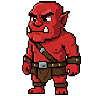
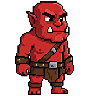
orc stand mirrored, mirror on move left fix

diff --git a/Assets/Scripts/Enemy/EnemyView.cs b/Assets/Scripts/Enemy/EnemyView.cs
@@ -13,6 +13,7 @@ public class EnemyView : MonoBehaviour
     public SpriteRenderer mainSprite;
     public float poiseFallThreshold = 0.1f;
     public float poiseStruggleThreshold = 0.5f;
+    public bool isLookingLeft = false;
 
     public void Init(Game game, Enemy enemy) {
         _game = game;
@@ -41,7 +42,11 @@ public class EnemyView : MonoBehaviour
     }
 
     public void ManualUpdate(float deltaTime) {
-        currentState?.UpdateState(deltaTime);
+        currentState?.UpdateState(deltaTime);        
+        transform.localScale = new Vector3(
+            isLookingLeft ? -1 : 1, 
+            1,
+            1);
     }
 
     public void Refresh(float poise) {

diff --git a/Assets/Scripts/Enemy/States/MoveToGem.cs b/Assets/Scripts/Enemy/States/MoveToGem.cs
@@ -25,6 +25,7 @@ public class MoveToGem : AiState
             _ai.SetState<MoveToSpawn>();
             return;
         }
-        _ai.MoveInDirrection(_ai.agent.desiredVelocity.normalized);        
+        _ai.MoveInDirrection(_ai.agent.desiredVelocity.normalized);     
+        _owner.view.isLookingLeft = (_owner.transform.position - _ai.targetGem.transform.position).x > 0;   
     }
 }

diff --git a/Assets/Scripts/Enemy/States/MoveToSpawn.cs b/Assets/Scripts/Enemy/States/MoveToSpawn.cs
@@ -26,5 +26,6 @@ public class MoveToSpawn : AiState
             return;
         }
         _ai.MoveInDirrection(_ai.agent.desiredVelocity.normalized);
+        _owner.view.isLookingLeft = (_owner.transform.position - _game.map.spawner.transform.position).x > 0;
     }
 }
